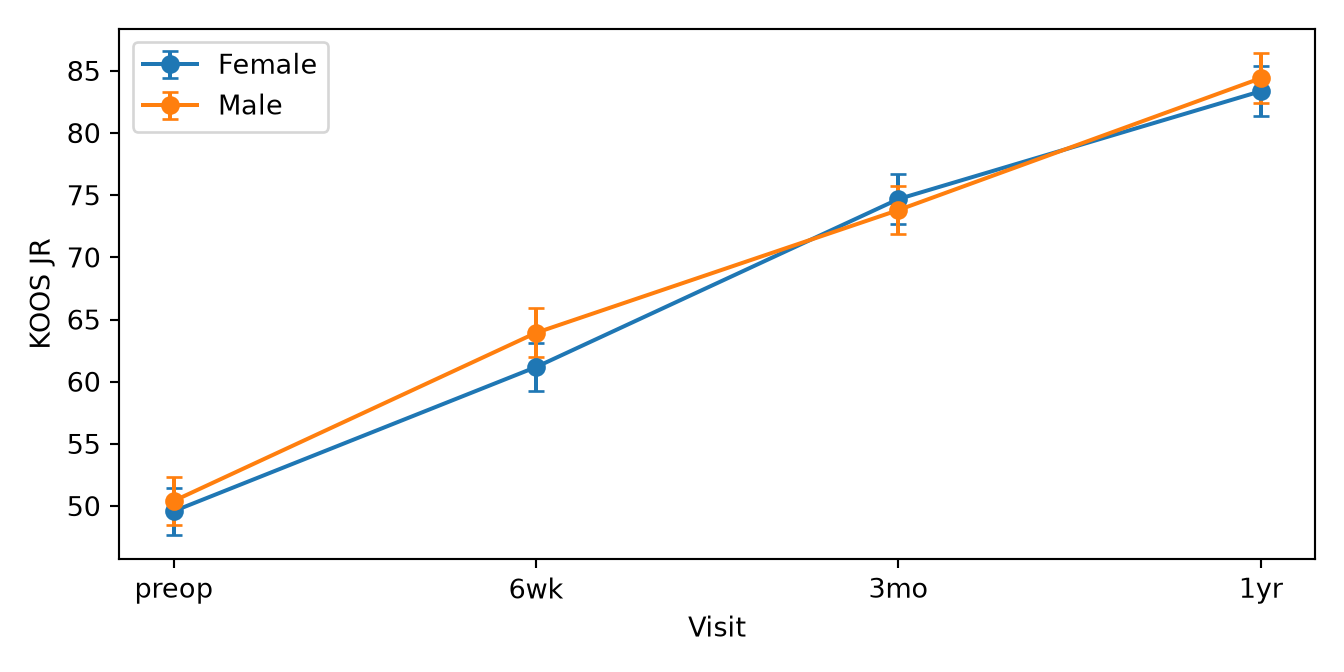
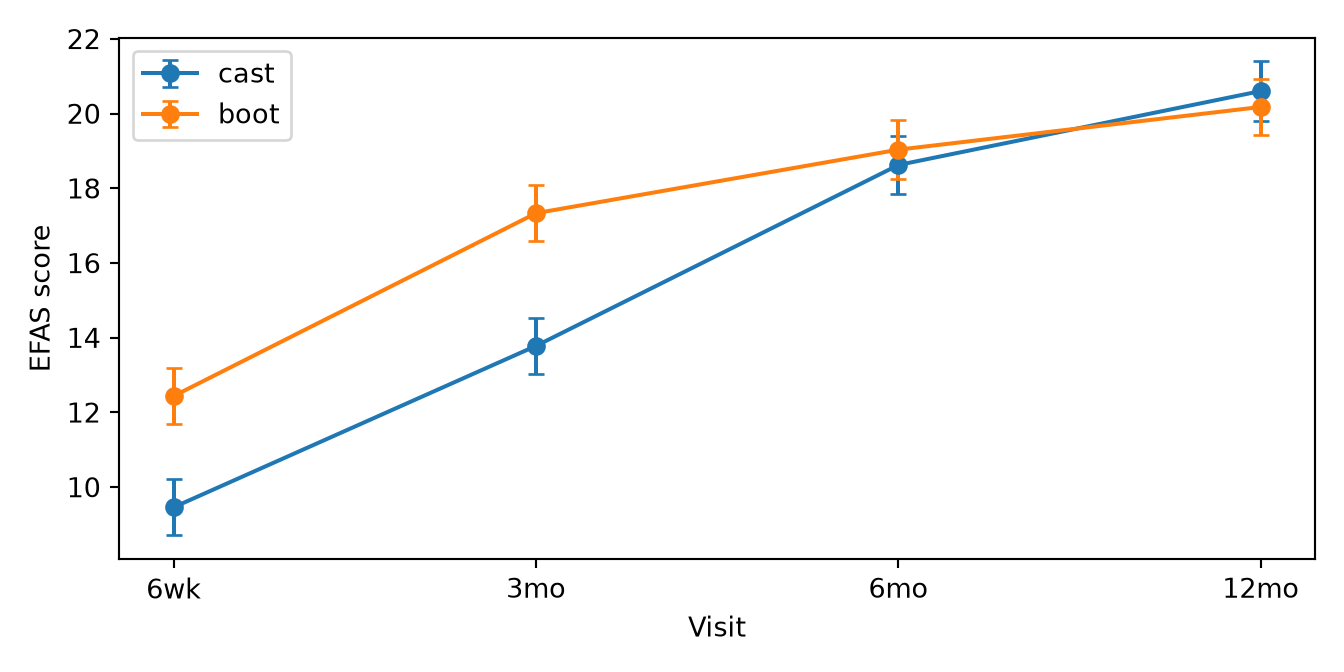
Page 16: group by time compares recovery with a boot and a cast, where the arms converge by 12 months; exercises on PROMIS physical function and on pain

diff --git a/tests/site/test_beyond.py b/tests/site/test_beyond.py
@@ -77,8 +77,16 @@ def test_time_is_shown_as_categories_and_as_a_curve(site):
 
 
 def test_group_by_time_tests_the_interaction(site):
-    text = text_of(section(MIXED, "group-by-time"))
-    assert "visit:sex" in text and "p = 0.100" in text and "no clear evidence" in text
+    found = section(MIXED, "group-by-time")
+    text = text_of(found)
+    assert "visit:arm" in text and "efas" in code_of(found)
+    warning = text_of(found.select_one("div.callout-warning"))
+    assert "doesn't say the boot is better" in warning and "doesn't show the arms are the same" in warning
+
+
+def test_differences_between_arms_are_adjusted_across_visits(site):
+    """emmeans adjusts inside each by group, where there's one contrast, so Holm needs by = NULL."""
+    assert 'by = NULL, adjust = "holm"' in code_of(section(MIXED, "group-by-time"))
 
 
 def test_bilateral_patients_get_a_nested_model_and_a_pointer(site):
@@ -189,7 +197,7 @@ def test_post_hoc_results_say_where_the_other_pairs_are(site):
 def test_mixed_model_page_states_its_arithmetic_and_missingness_correctly(site):
     text = text_of(load(MIXED))
     assert "8.8² = 78.1" not in text and "8.84² = 78.1" in text
-    assert "Men were 2.7 points ahead" in text
+    assert "boot led by 3.6 points" in text
     assert "missed completely at random" not in text and "almost entirely at random" in text
     assert "as long as the model describes how a knee's scores are related" in text
 
@@ -231,9 +239,10 @@ def test_false_positive_example_says_pairwise_tests_are_not_independent(site):
 
 
 def test_interaction_results_give_the_marginal_means_with_cis(site):
-    """Page 16's ⚠ box says a non-significant interaction is reported with the EMMs and their CIs."""
-    results = next(text_of(q) for q in section(MIXED, "reporting").select("blockquote") if "Results:" in text_of(q))
-    assert "84.4 (95% CI 82.4 to 86.4) in men" in results and "83.4 (95% CI 81.3 to 85.4) in women" in results
+    """Page 16's ⚠ box says an interaction is read through the EMMs and their CIs."""
+    results = " ".join(text_of(q) for q in section(MIXED, "reporting").select("blockquote"))
+    assert "17.3 (95% CI 16.6 to 18.1) with a boot" in results and "13.8 (95% CI 13.0 to 14.5) with a cast" in results
+    assert "Holm-adjusted p = 0.898" in results
 
 
 def test_agreement_example_is_a_systematic_offset(site):
@@ -250,8 +259,8 @@ def test_dunn_controls_false_positives_only_with_holm(site):
 
 
 def test_mixed_model_exercise_counts_joint_replacements_not_patients(site):
-    text = text_of(section(MIXED, "exercises"))
-    assert "patients" not in text and "600 joint replacements" in text
+    exercise_2 = text_of(section(MIXED, "exercises")).split("Does pain change differently")[0]
+    assert "patients" not in exercise_2 and "600 joint replacements" in exercise_2
 
 
 def test_walking_aid_answer_gives_counts_with_percentages(site):

diff --git a/tests/site/test_sources.py b/tests/site/test_sources.py
@@ -242,9 +242,9 @@ def test_beyond_prose_guards_pin_numbers_quoted_from_other_pages():
     guards = {name: next(code for lang, code in hidden_chunks(text) if "Prose guard" in code)
               for name, text in written_pages("beyond")}
     assert "33.5" in guards["beyond/15-post-hoc.qmd"] and "3.07" in guards["beyond/15-post-hoc.qmd"]
-    assert "34.9" in guards["beyond/16-mixed-models.qmd"] and "831" in guards["beyond/16-mixed-models.qmd"]
+    assert "39.4" in guards["beyond/16-mixed-models.qmd"] and "promis_pf" in guards["beyond/16-mixed-models.qmd"]
     assert "ptukey(" in guards["beyond/15-post-hoc.qmd"]   # the 20% for six pairwise comparisons
-    assert "82.4, 86.4" in guards["beyond/16-mixed-models.qmd"]   # the 1-year EMMs' CIs in the Results
+    assert "16.6, 18.1" in guards["beyond/16-mixed-models.qmd"]   # the 3-month EMMs' CIs in the Results
 
 
 def calls_of(code, function):
@@ -310,7 +310,7 @@ def test_mixed_model_checks_loosen_the_tolerance_only_where_the_two_methods_diff
     by_tol = {tol: {name for names, t in checks if t == tol for name in names} for tol in [None, "1e-5", "1e-3"]}
     assert by_tol["1e-3"] and all(name.startswith(("se_", "wald")) for name in by_tol["1e-3"]), by_tol["1e-3"]
     assert by_tol["1e-5"] == {"sd_knee", "sd_residual"}
-    assert {"intercept", "visit_1yr", "emm_pre", "emm_1yr", "emm_male_6wk", "emm_female_1yr"} <= by_tol[None]
+    assert {"intercept", "visit_1yr", "emm_pre", "emm_1yr", "emm_boot_3mo", "emm_cast_12mo", "diff_3mo", "diff_12mo"} <= by_tol[None]
 
 
 def test_conover_p_values_are_checked_r_against_python():
